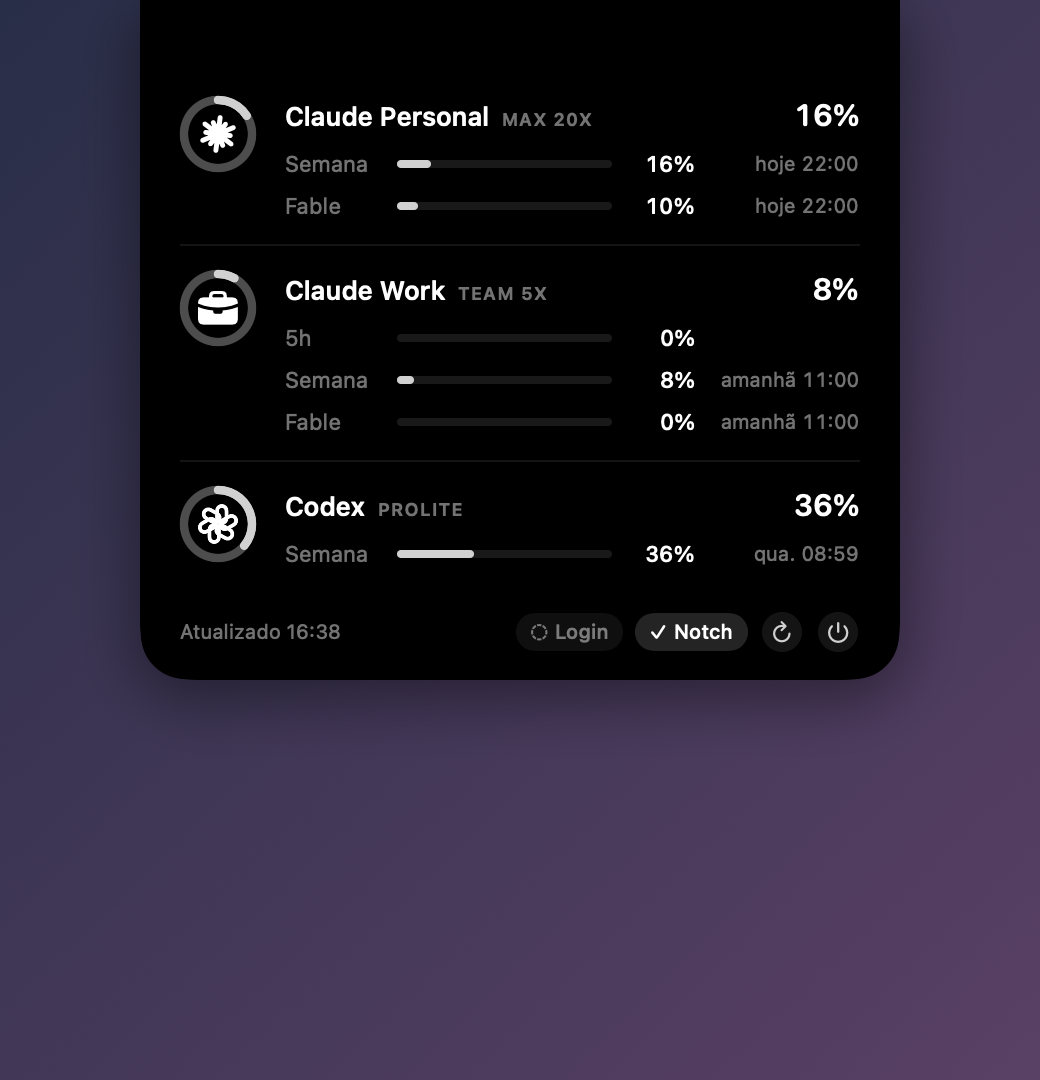
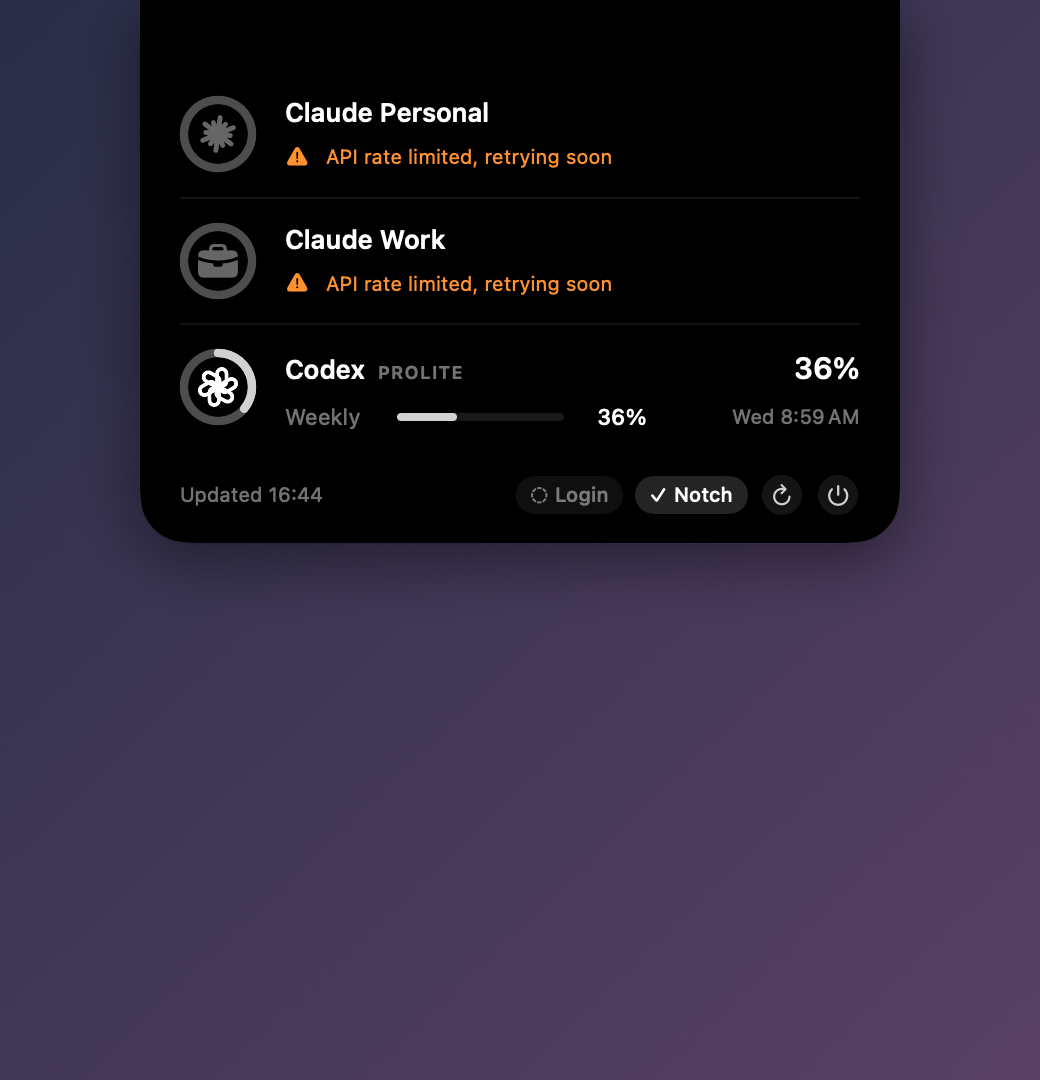
Localize UI in English, Portuguese and Spanish
UI follows the system language order (falls back to English). Limit windows
are now typed (session/weekly/per-model) instead of matching label strings,
and reset times use the locale's 12h/24h format.

diff --git a/Sources/NotchLimits/NotchLimits.swift b/Sources/NotchLimits/NotchLimits.swift
@@ -62,11 +62,41 @@ let refreshInterval: TimeInterval = 300
 
 // MARK: - Modelo
 
+enum WindowKind: Hashable {
+    case session(hours: Int)
+    case weekly
+    case weeklyModel(String)
+    case days(Int)
+}
+
 struct LimitWindow: Identifiable {
-    var id: String { label }
-    let label: String
+    var id: WindowKind { kind }
+    let kind: WindowKind
     let percent: Double
     let resetsAt: Date?
+
+    var label: String {
+        switch kind {
+        case .session(let h): L("\(h)h session", "Sessão \(h)h", "Sesión \(h)h")
+        case .weekly: L("Weekly", "Semana", "Semanal")
+        case .weeklyModel(let model): "\(L("Weekly", "Semana", "Semanal")) · \(model)"
+        case .days(let d): "\(d)d"
+        }
+    }
+
+    /// Versão compacta usada no notch
+    var shortLabel: String {
+        switch kind {
+        case .session(let h): "\(h)h"
+        case .weeklyModel(let model): model
+        default: label
+        }
+    }
+
+    /// Sessão mostra contagem regressiva; as demais mostram dia e hora do reset
+    var isSession: Bool {
+        if case .session = kind { true } else { false }
+    }
 }
 
 struct Usage {
@@ -96,7 +126,7 @@ private func runSecurity(_ service: String) throws -> Data {
     try p.run()
     let data = out.fileHandleForReading.readDataToEndOfFile()
     p.waitUntilExit()
-    guard p.terminationStatus == 0 else { throw UsageError("Credencial não encontrada no Keychain") }
+    guard p.terminationStatus == 0 else { throw UsageError(L("Credential not found in Keychain", "Credencial não encontrada no Keychain", "Credencial no encontrada en el Llavero")) }
     return data
 }
 
@@ -116,6 +146,10 @@ private func parseISO(_ s: String?) -> Date? {
     return f.date(from: s)
 }
 
+private var tokenExpired: UsageError {
+    UsageError(L("Token expired — open the CLI to renew it", "Token expirado — abra o CLI para renovar", "Token expirado — abre la CLI para renovarlo"))
+}
+
 private func get(_ url: String, headers: [String: String]) async throws -> Any {
     var req = URLRequest(url: URL(string: url)!, timeoutInterval: 20)
     headers.forEach { req.setValue($1, forHTTPHeaderField: $0) }
@@ -123,8 +157,8 @@ private func get(_ url: String, headers: [String: String]) async throws -> Any {
     let status = (resp as? HTTPURLResponse)?.statusCode ?? 0
     switch status {
     case 200: return try JSONSerialization.jsonObject(with: data)
-    case 401, 403: throw UsageError("Token expirado — abra o CLI para renovar")
-    case 429: throw UsageError("Rate limit da API, tenta de novo já já")
+    case 401, 403: throw tokenExpired
+    case 429: throw UsageError(L("API rate limited, retrying soon", "Rate limit da API, tenta de novo já já", "Límite de la API, se reintentará pronto"))
     default: throw UsageError("HTTP \(status)")
     }
 }
@@ -133,9 +167,9 @@ private func fetchClaude(configDir: String) async throws -> Usage {
     let raw = try await Task.detached { try runSecurity(keychainService(for: configDir)) }.value
     guard let creds = (try JSONSerialization.jsonObject(with: raw) as? [String: Any])?["claudeAiOauth"] as? [String: Any],
           let token = creds["accessToken"] as? String
-    else { throw UsageError("Credencial inválida") }
+    else { throw UsageError(L("Invalid credential", "Credencial inválida", "Credencial no válida")) }
     if let exp = creds["expiresAt"] as? Double, exp / 1000 < Date().timeIntervalSince1970 {
-        throw UsageError("Token expirado — abra o CLI para renovar")
+        throw tokenExpired
     }
 
     let json = try await get("https://api.anthropic.com/api/oauth/usage", headers: [
@@ -149,18 +183,17 @@ private func fetchClaude(configDir: String) async throws -> Usage {
         for l in limits {
             guard let pct = l["percent"] as? Double else { continue }
             let model = ((l["scope"] as? [String: Any])?["model"] as? [String: Any])?["display_name"] as? String
-            let label: String
-            switch l["kind"] as? String {
-            case "session": label = "Sessão 5h"
-            case "weekly_all": label = "Semana"
-            default: label = "Semana · \(model ?? "outro")"
+            let kind: WindowKind = switch l["kind"] as? String {
+            case "session": .session(hours: 5)
+            case "weekly_all": .weekly
+            default: .weeklyModel(model ?? L("other", "outro", "otro"))
             }
-            windows.append(LimitWindow(label: label, percent: pct, resetsAt: parseISO(l["resets_at"] as? String)))
+            windows.append(LimitWindow(kind: kind, percent: pct, resetsAt: parseISO(l["resets_at"] as? String)))
         }
     } else {
-        for (key, label) in [("five_hour", "Sessão 5h"), ("seven_day", "Semana")] {
+        for (key, kind) in [("five_hour", WindowKind.session(hours: 5)), ("seven_day", .weekly)] {
             guard let w = json[key] as? [String: Any], let pct = w["utilization"] as? Double else { continue }
-            windows.append(LimitWindow(label: label, percent: pct, resetsAt: parseISO(w["resets_at"] as? String)))
+            windows.append(LimitWindow(kind: kind, percent: pct, resetsAt: parseISO(w["resets_at"] as? String)))
         }
     }
 
@@ -174,7 +207,7 @@ private func fetchCodex(authFile: String) async throws -> Usage {
     guard let data = FileManager.default.contents(atPath: authFile),
           let tokens = (try JSONSerialization.jsonObject(with: data) as? [String: Any])?["tokens"] as? [String: Any],
           let token = tokens["access_token"] as? String
-    else { throw UsageError("auth.json não encontrado — faça login no codex") }
+    else { throw UsageError(L("auth.json not found — log in to Codex", "auth.json não encontrado — faça login no Codex", "auth.json no encontrado — inicia sesión en Codex")) }
 
     var headers = ["Authorization": "Bearer \(token)", "User-Agent": "codex_cli_rs"]
     if let acc = tokens["account_id"] as? String { headers["ChatGPT-Account-Id"] = acc }
@@ -185,9 +218,9 @@ private func fetchCodex(authFile: String) async throws -> Usage {
     for key in ["primary_window", "secondary_window"] {
         guard let w = rl[key] as? [String: Any], let pct = w["used_percent"] as? Double else { continue }
         let secs = w["limit_window_seconds"] as? Int ?? 0
-        let label = secs >= 604_800 ? "Semana" : secs >= 86_400 ? "\(secs / 86_400)d" : "Sessão \(secs / 3600)h"
+        let kind: WindowKind = secs >= 604_800 ? .weekly : secs >= 86_400 ? .days(secs / 86_400) : .session(hours: secs / 3600)
         let reset = (w["reset_at"] as? Double).map { Date(timeIntervalSince1970: $0) }
-        windows.append(LimitWindow(label: label, percent: pct, resetsAt: reset))
+        windows.append(LimitWindow(kind: kind, percent: pct, resetsAt: reset))
     }
     return Usage(windows: windows, plan: json["plan_type"] as? String, updatedAt: Date())
 }
@@ -261,24 +294,23 @@ func alertColor(for pct: Double) -> Color? {
 func resetText(_ date: Date?, short: Bool = false, countdown: Bool = false) -> String {
     guard let date else { return "" }
     let secs = date.timeIntervalSinceNow
-    if secs <= 0 { return "resetou" }
+    if secs <= 0 { return L("reset", "resetou", "reiniciado") }
     if countdown {
         let h = Int(secs) / 3600, m = Int(secs) % 3600 / 60
         let t = h > 0 ? "\(h)h\(String(format: "%02d", m))" : "\(m)min"
-        return short ? "em \(t)" : "reseta em \(t)"
+        return short ? L("in \(t)", "em \(t)", "en \(t)") : L("resets in \(t)", "reseta em \(t)", "se reinicia en \(t)")
     }
     // arredonda pro minuto mais próximo (a API manda 00:59:59.9 para resets "às 01:00")
     let d = Date(timeIntervalSince1970: (date.timeIntervalSince1970 / 60).rounded() * 60)
-    let f = DateFormatter()
-    f.locale = Locale(identifier: "pt_BR")
-    f.dateFormat = "HH:mm"
     let cal = Calendar.current
-    let day: String
-    if cal.isDateInToday(d) { day = "hoje" }
-    else if cal.isDateInTomorrow(d) { day = "amanhã" }
-    else { f.dateFormat = "EEE HH:mm"; day = "" }
-    let t = day.isEmpty ? f.string(from: d) : "\(day) \(f.string(from: d))"
-    return short ? t : "reseta \(t)"
+    let f = DateFormatter()
+    f.locale = uiLocale
+    f.dateFormat = "EEE"
+    let day = cal.isDateInToday(d) ? L("today", "hoje", "hoy")
+        : cal.isDateInTomorrow(d) ? L("tomorrow", "amanhã", "mañana") : f.string(from: d)
+    f.setLocalizedDateFormatFromTemplate("jmm")   // respeita 12h/24h do idioma
+    let t = "\(day) \(f.string(from: d))"
+    return short ? t : L("resets \(t)", "reseta \(t)", "se reinicia \(t)")
 }
 
 struct AccountView: View {
@@ -308,7 +340,7 @@ struct AccountView: View {
                                 .foregroundStyle(alertColor(for: w.percent) ?? .primary)
                         }
                         ProgressView(value: min(w.percent, 100), total: 100).tint(alertColor(for: w.percent) ?? .gray)
-                        Text(resetText(w.resetsAt, countdown: w.label.hasPrefix("Sessão"))).font(.caption2).foregroundStyle(.secondary)
+                        Text(resetText(w.resetsAt, countdown: w.isSession)).font(.caption2).foregroundStyle(.secondary)
                     }
                 }
             } else if usage == nil {
@@ -332,7 +364,7 @@ struct ContentView: View {
             Divider()
             HStack {
                 if let t = store.usage.values.compactMap(\.updatedAt).max() {
-                    Text("Atualizado \(t.formatted(date: .omitted, time: .shortened))")
+                    Text("\(L("Updated", "Atualizado", "Actualizado")) \(t.formatted(date: .omitted, time: .shortened))")
                         .font(.caption2).foregroundStyle(.secondary)
                 }
                 Spacer()
@@ -342,10 +374,10 @@ struct ContentView: View {
                     if store.loading { ProgressView().controlSize(.mini) } else { Image(systemName: "arrow.clockwise") }
                 }
                 .buttonStyle(.borderless)
-                .help("Atualizar")
+                .help(L("Refresh", "Atualizar", "Actualizar"))
             }
             HStack {
-                Toggle("Abrir no login", isOn: $launchAtLogin)
+                Toggle(L("Launch at login", "Abrir no login", "Abrir al iniciar sesión"), isOn: $launchAtLogin)
                     .toggleStyle(.checkbox).font(.caption)
                     .onChange(of: launchAtLogin) { _, on in
                         try? on ? SMAppService.mainApp.register() : SMAppService.mainApp.unregister()
@@ -353,7 +385,7 @@ struct ContentView: View {
                 Toggle("Notch", isOn: $showNotch)
                     .toggleStyle(.checkbox).font(.caption)
                 Spacer()
-                Button("Sair") { NSApp.terminate(nil) }.buttonStyle(.borderless).font(.caption)
+                Button(L("Quit", "Sair", "Salir")) { NSApp.terminate(nil) }.buttonStyle(.borderless).font(.caption)
             }
         }
         .padding(14)

diff --git a/Sources/NotchLimits/Notch.swift b/Sources/NotchLimits/Notch.swift
@@ -101,11 +101,11 @@ private struct NotchDetailView: View {
     private var footer: some View {
         HStack(spacing: 6) {
             if let t = store.usage.values.compactMap(\.updatedAt).max() {
-                Text("Atualizado \(t.formatted(date: .omitted, time: .shortened))")
+                Text("\(L("Updated", "Atualizado", "Actualizado")) \(t.formatted(date: .omitted, time: .shortened))")
                     .font(.system(size: 10)).foregroundStyle(dim)
             }
             Spacer()
-            chip("Login", on: launchAtLogin) {
+            chip(L("Login", "Login", "Inicio"), on: launchAtLogin) {
                 launchAtLogin.toggle()
                 try? launchAtLogin ? SMAppService.mainApp.register() : SMAppService.mainApp.unregister()
             }
@@ -175,15 +175,15 @@ private struct NotchAccountRow: View {
                     VStack(spacing: 7) {
                         ForEach(windows) { w in
                             HStack(spacing: 10) {
-                                Text(shortLabel(w.label)).font(.system(size: 11)).foregroundStyle(dim)
+                                Text(w.shortLabel).font(.system(size: 11)).foregroundStyle(dim)
                                     .frame(width: 46, alignment: .leading)
                                 UsageBar(percent: w.percent)
                                 Text("\(Int(w.percent.rounded()))%")
                                     .font(.system(size: 11, weight: .medium).monospacedDigit())
                                     .frame(width: 32, alignment: .trailing)
-                                Text(resetText(w.resetsAt, short: true, countdown: w.label.hasPrefix("Sessão")))
+                                Text(resetText(w.resetsAt, short: true, countdown: w.isSession))
                                     .font(.system(size: 10).monospacedDigit()).foregroundStyle(dim)
-                                    .frame(width: 72, alignment: .trailing)
+                                    .frame(width: 96, alignment: .trailing)
                             }
                         }
                     }
@@ -192,10 +192,6 @@ private struct NotchAccountRow: View {
                 }
             }
         }
-    }
-
-    private func shortLabel(_ label: String) -> String {
-        label.replacingOccurrences(of: "Sessão ", with: "").replacingOccurrences(of: "Semana · ", with: "")
     }
 }
 

diff --git a/Sources/NotchLimits/L10n.swift b/Sources/NotchLimits/L10n.swift
@@ -1,0 +1,27 @@
+import Foundation
+
+// Interface em inglês, português e espanhol, seguindo a ordem de idiomas do sistema (padrão: inglês)
+
+enum Lang: String {
+    case en, pt, es
+}
+
+/// Primeiro idioma suportado da lista de preferências do sistema, junto com o identificador original (ex.: "pt-BR")
+private let preferred: (lang: Lang, id: String) = {
+    for id in Locale.preferredLanguages {
+        if let lang = Lang(rawValue: String(id.prefix(2))) { return (lang, id) }
+    }
+    return (.en, "en")
+}()
+
+let lang = preferred.lang
+let uiLocale = Locale(identifier: preferred.id)
+
+/// Escolhe o texto do idioma atual
+func L(_ en: String, _ pt: String, _ es: String) -> String {
+    switch lang {
+    case .en: en
+    case .pt: pt
+    case .es: es
+    }
+}

diff --git a/README.md b/README.md
@@ -34,6 +34,7 @@ If you juggle **multiple Claude Code accounts** (for example personal Max and a 
 - **Read-only and local:** it reuses the credentials your CLIs already store. It never refreshes, rewrites or uploads tokens anywhere other than the official usage endpoint.
 - **Small and dependency-free:** pure Swift + SwiftUI. It refreshes every 5 minutes and on hover.
 - **Launch at login** toggle built in.
+- **English, Português and Español:** the UI follows your macOS language order and falls back to English.
 
 ## Requirements
 
@@ -108,13 +109,13 @@ These are the same endpoints that Claude Code's `/usage` and Codex's `/status` u
 
 ## Troubleshooting
 
-- **"Token expirado — abra o CLI para renovar"** (token expired, open the CLI to renew it): access tokens are short-lived, and notch-limits never refreshes them on purpose, to avoid racing your CLI. Run `claude` (or `claude-work`, `codex`…) once and the account comes back on the next refresh.
-- **"Rate limit da API"** (API rate limit): the usage endpoint was polled too often. The next 5-minute refresh will recover it.
+- **"Token expired — open the CLI to renew it":** access tokens are short-lived, and notch-limits never refreshes them on purpose, to avoid racing your CLI. Run `claude` (or `claude-work`, `codex`…) once and the account comes back on the next refresh.
+- **"API rate limited":** the usage endpoint was polled too often. The next 5-minute refresh will recover it.
 - **Nothing next to the notch:** check that the built-in display is active. In clamshell mode the app automatically switches to the menu bar.
 
 ## Notes
 
-- The UI is currently in Brazilian Portuguese (pt-BR). PRs adding localization are welcome.
+- The UI is available in English, Portuguese and Spanish (System Settings → General → Language & Region). PRs adding more languages are welcome; all strings live in `L(en, pt, es)` calls (see `Sources/NotchLimits/L10n.swift`).
 - The endpoints above are undocumented and may change without notice.
 - This is an unofficial community project. It is not affiliated with or endorsed by Anthropic or OpenAI. "Claude" and "Codex" are trademarks of their respective owners.
 
